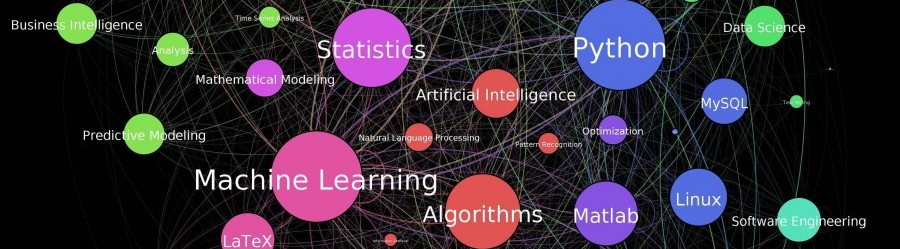
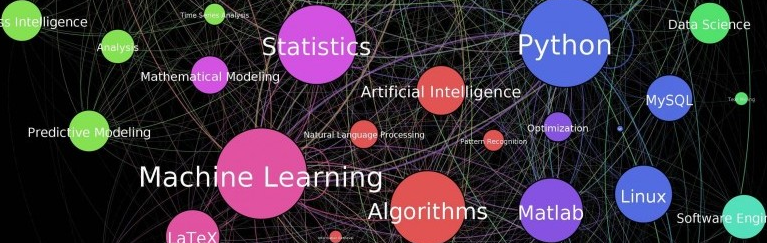
update

diff --git a/index.html b/index.html
@@ -24,8 +24,8 @@
 	  <p> Ph.D. candidate, <a style="color:#ffff00; text-decoration:none" href="http://www.binghamton.edu/ssie/index.html" target="_blank">Binghamton University </span> </a> </p>
 	  <p> Graduate Research Associate, Watson Institute for Systems Excellence - <a style="color:#ffff00; text-decoration:none" href="https://www.binghamton.edu/watson/research/wise/" target="_blank">WISE </span></a> 
 	  
-	   <span style="width:150px;display:inline-block"></span>
-	   <a href="https://www.linkedin.com/pub/desta-a-hailemariam/5b/279/279"><img src="https://static.licdn.com/scds/common/u/img/webpromo/btn_myprofile_160x33.png" width="120" height="25" border="0" alt="View Desta A. Hailemariam's profile on LinkedIn"> </a>
+	   <span style="width:400px;display:inline-block"></span>
+	   <a href="https://www.linkedin.com/pub/desta-a-hailemariam/5b/279/279"><img src="https://static.licdn.com/scds/common/u/img/webpromo/btn_myprofile_160x33.png" width="120" height="25" border="0" alt="LinkedIn Profile"> </a>
         
    
 	  <span style="width:10px;display:inline-block"></span> <a style="color:#ffff00" href="https://github.com/datascience-is-fun"  target="_blank"> 
@@ -81,7 +81,7 @@
 	</main>
 	
 	<aside>
-	  <img position: absolute; top: 2px; right: 2px; src="data-science-skills.png"  height="160" width="500">
+	  <img position: absolute; top: 2px; right: 2px; src="data-science-skills.png"  height="160" width="450">
 	  <h2>Skills</h2>
 	  
 	  <h3>Tools</h3>
